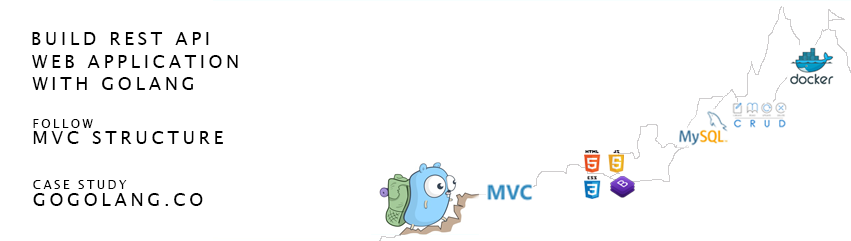
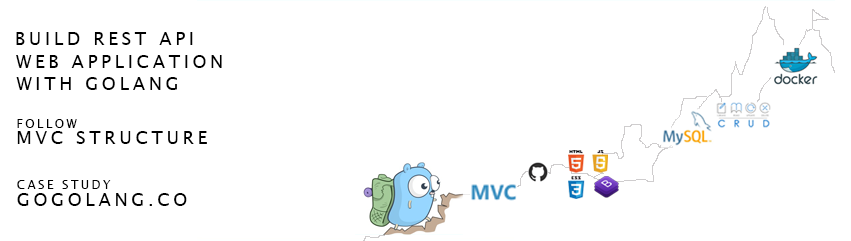
StaticFile service for images

diff --git a/views/welcome/welcome-content.html b/views/welcome/welcome-content.html
@@ -1,7 +1,7 @@
 <!--welcome-content.html-->
 
     <div class="mt-5">
-        <div class="jumbotron p-5">
+        <div class="jumbotron">
             <div class="container">
                 <p class="lead">
                     "ยินดีต้อนรับสู่เว็บไซร์ของ GoGolang.co
@@ -11,7 +11,7 @@
                     คุณสามารถเข้ามาเยี่ยมชมเว็บไซร์ของเราได้ทุกวันเพื่อติดตามความเคลื่อนไหวเปลี่ยแปลงของเว็บไซร์
                     คุณจะได้เห็นทิศทางการพัฒนาและลำดับขั้นตอนในการพัฒนาที่ต่อเนื่อง โดยเราจะพยายามเขียนบทความ
                     ในทุกช่วงทุกขั้นตอนในระหว่างการพัฒนาเว็บไซร์แห่งนี้ โดยร่วมถึง การพบเจอปัญหา และการแก้ปัญหา
-                    โดยหวังว่าจะเป็นประโยชน์ต่อผู้เยียมชม ที่เริ่มเรียนรู้ภาษาโกเพื่อพัฒนาต่อยอดต่อไป."
+                    โดยหวังว่าจะเป็นประโยชน์ต่อผู้เยี่ยมชม ที่เริ่มเรียนรู้ภาษาโกเพื่อพัฒนาต่อยอดต่อไป."
                     <br />
                     <br />
                 <p class="lead text-center">
@@ -22,13 +22,13 @@
         </p>
 
         <div class="mt-5">
-            <div class="jumbotron p-5">
+            <div class="jumbotron">
                 <div class="container">
                     <p class="lead text-center text-small">
                     <footer class="blockquote-footer">
                         ***หมายเหตุ: โปรดทราบ ผู้จัดทำเว็บไซร์เองนั้นก็พึ่งได้เริ่มเรียนรู้ภาษาโก
                         และสร้างเว็บแอพพลิเคชั่นด้วยภาษาโกเว็บนี้เป็นเว็บแรก
-                        ดังนั้นสิ่งที่ปรากฏในเว็บไซร์ ในบทความต่างๆ วิธีการ จึงอาจไม่ใช่สิ่งที่ถูกต้องหรือดีที่สุด
+                        ดังนั้นสิ่งที่ปรากฏในเว็บไซร์ ในบทความต่างๆ วิธีการ จึงอาจไม่ใช่สิ่งที่ถูกต้องที่สุด หรือดีที่สุด
                         กรุณาใช้วิจารณญาณในการเรียนรู้ และศึกษาค้นคว้าข้อมูลเพิ่มเติม
                         เพื่อค้นหารูปแบบของตัวเองต่อไปด้วยตัวท่านเองจึงจะเป็นสิ่งที่ดีที่สุด.
                         ขอให้สนุกกับการเรียนรู้สิ่งใหม่ๆ อยู่เสมอครับ.

diff --git a/views/about/about-content.html b/views/about/about-content.html
@@ -1,5 +1,5 @@
 <!-- about-content.html-->
-<main role="main" class="container">
+
     <div class="mt-5">
         <div class="jumbotron p-5">
             <div class="container">
@@ -11,7 +11,7 @@
                     คุณสามารถเข้ามาเยี่ยมชมเว็บไซร์ของเราได้ทุกวันเพื่อติดตามความเคลื่อนไหวเปลี่ยแปลงของเว็บไซร์
                     คุณจะได้เห็นทิศทางการพัฒนาและลำดับขั้นตอนในการพัฒนาที่ต่อเนื่อง โดยเราจะพยายามเขียนบทความ
                     ในทุกช่วงทุกขั้นตอนในระหว่างการพัฒนาเว็บไซร์แห่งนี้ โดยร่วมถึง การพบเจอปัญหา และการแก้ปัญหา
-                    โดยหวังว่าจะเป็นประโยชน์ต่อผู้เยียมชม ที่เริ่มเรียนรู้ภาษาโกเพื่อพัฒนาต่อยอดต่อไป."
+                    โดยหวังว่าจะเป็นประโยชน์ต่อผู้เยี่ยมชม ที่เริ่มเรียนรู้ภาษาโกเพื่อพัฒนาต่อยอดต่อไป."
                     <br />
                     <br />
                 <p class="lead text-center">

diff --git a/views/about/about-index.html b/views/about/about-index.html
@@ -1,42 +1,5 @@
 <html lang="en">
-  <head>
-    <meta charset="UTF-8" />
-    <meta name="viewport" content="width=device-width, initial-scale=1.0" />
-    <meta http-equiv="X-UA-Compatible" content="ie=edge" />
-
-    <!-- bootstrap 4 -->
-    <link
-      rel="stylesheet"
-      href="https://stackpath.bootstrapcdn.com/bootstrap/4.3.1/css/bootstrap.min.css"
-      integrity="sha384-ggOyR0iXCbMQv3Xipma34MD+dH/1fQ784/j6cY/iJTQUOhcWr7x9JvoRxT2MZw1T"
-      crossorigin="anonymous"
-    />
-
-    <style>
-      body {
-        min-height: 75rem;
-        padding-top: 4.5rem;
-      }
-
-      .bd-placeholder-img {
-        font-size: 1.125rem;
-        text-anchor: middle;
-        -webkit-user-select: none;
-        -moz-user-select: none;
-        -ms-user-select: none;
-        user-select: none;
-      }
-
-      @media (min-width: 768px) {
-        .bd-placeholder-img-lg {
-          font-size: 3.5rem;
-        }
-      }
-    </style>
-
-    <title>{{.Title}}</title>
-  </head>
-
+  {{ template "index-header.html" .}}
   <body>
     {{ template "navbar.html" .}}
     <main role="main" class="container">

diff --git a/views/partials/banner-top.html b/views/partials/banner-top.html
@@ -1,4 +1,10 @@
 <!--banner-top.html-->
-<div class="container">
-  <div class="container p-5 mt-3 mb-3 bg-light"></div>
+
+<div class="container mt-3 mb-3 text-center">
+  <img
+    src="/assets/images/banner-golang-no-border.png"
+    class="img-fluid"
+    alt="GoGolang Banner"
+    style="width: 100%; height: auto;"
+  />
 </div>

diff --git a/app/app.go b/app/app.go
@@ -11,6 +11,7 @@ var (
 
 func StartApp() {
 	router.LoadHTMLGlob("views/*/*.html")
+	router.Static("/assets/", "./assets/")
 	urlsMapping()
 	router.Run(":" + configs.ServerPort.PortSelector("8090"))
 }

diff --git a/services/users/user_service.go b/services/users/user_service.go
@@ -4,10 +4,5 @@ type users struct{}
 
 var Users users
 
-func (u *users) CreateUser() {
-
+func (u *users) CreateUser() (*users, err) {
 }
-
-// func (u *users) GetUser() {
-
-// }
